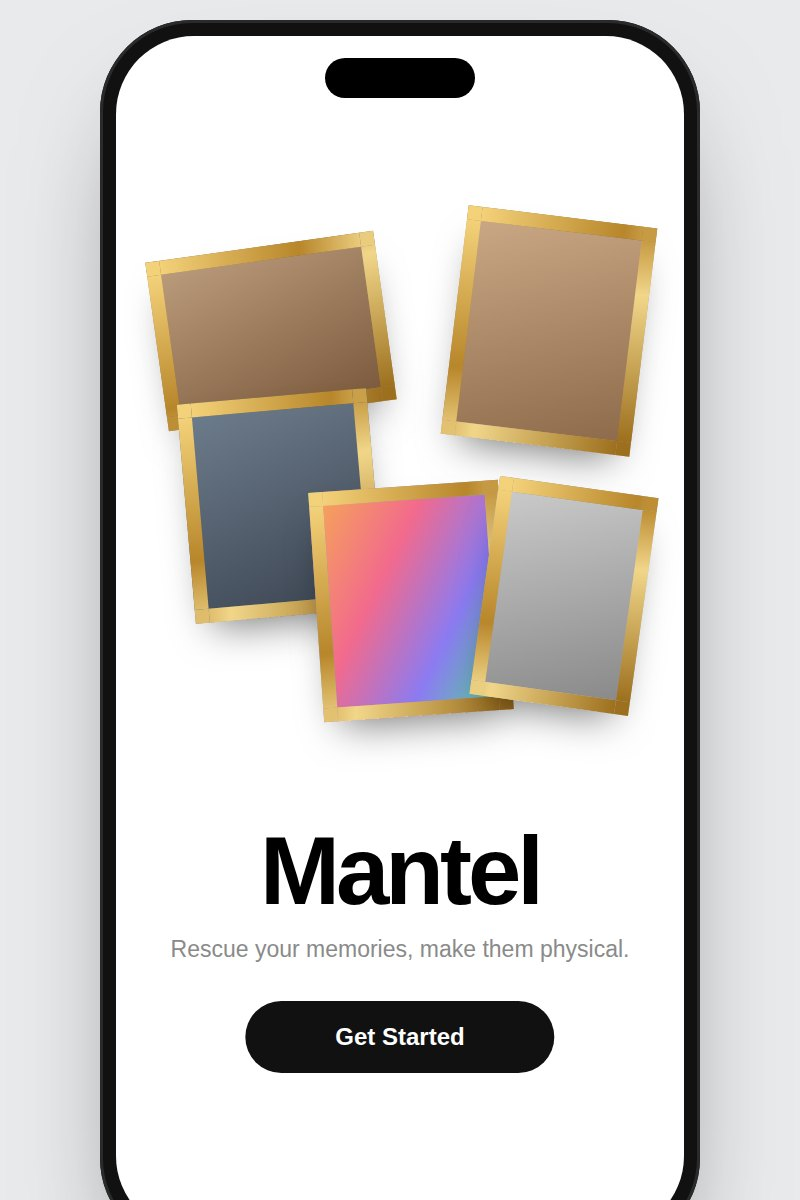
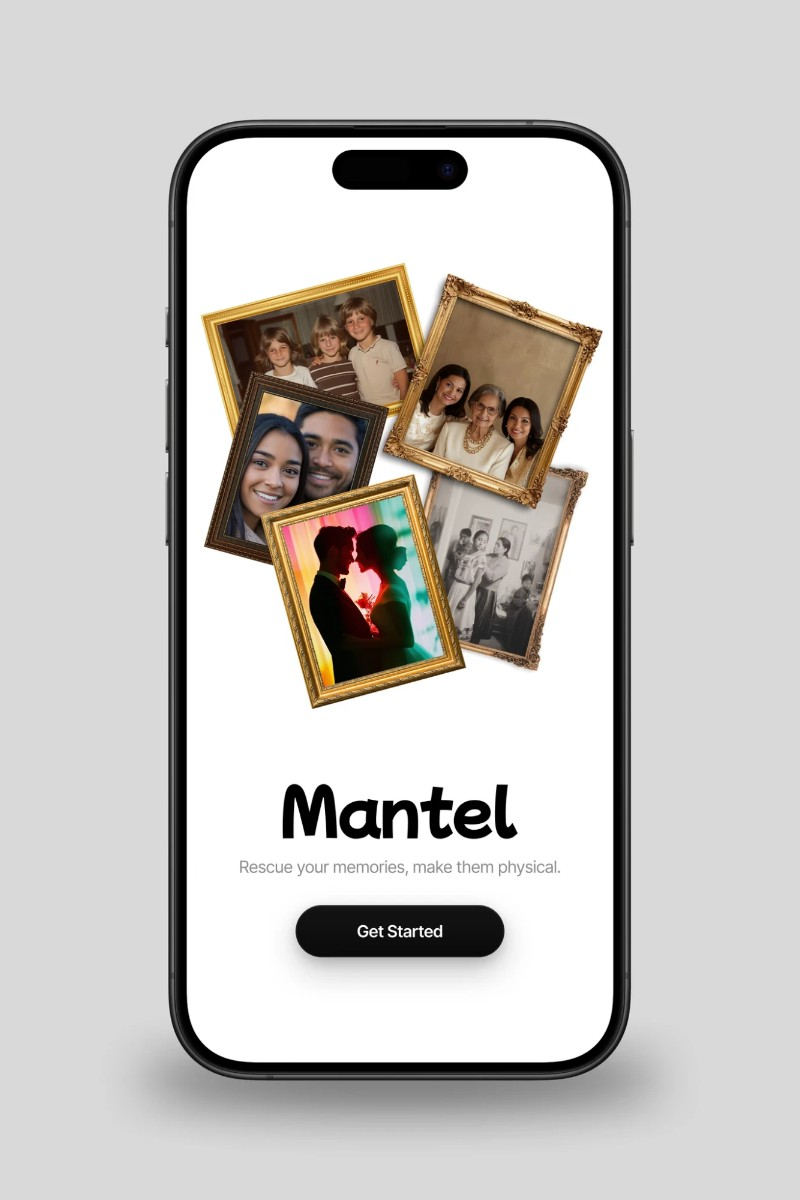
Mantel tile uses the real app screen
The coded stand-in is replaced by the actual Mantel welcome screen,
cropped to the tile's 2:3 shape with the phone centred.

Claude-Session: https://claude.ai/code/session_01L7ZXw55oRo21ShRJV8o9eD

diff --git a/src/app/page.tsx b/src/app/page.tsx
@@ -31,9 +31,9 @@ export const metadata: Metadata = {
  * The work row on the homepage: three tiles, a taste, because /work holds
  * the whole set and CardsRG gets its own band further down this page. Each
  * image fills its box and is cropped from the side named in pos, so a
- * landing page, a phone screen and a vertical reel sit in one row. The
- * Mantel and Kalender renders live at the two work-*.jpg paths; drop a new
- * export at the same path to replace either one.
+ * landing page, a phone screen and a vertical reel sit in one row. Mantel
+ * is the real app screen, cropped to 2:3. Kalender is still a coded render
+ * at work-kalender.jpg; drop the real export at that path to replace it.
  */
 const SHOWCASE = [
   {
